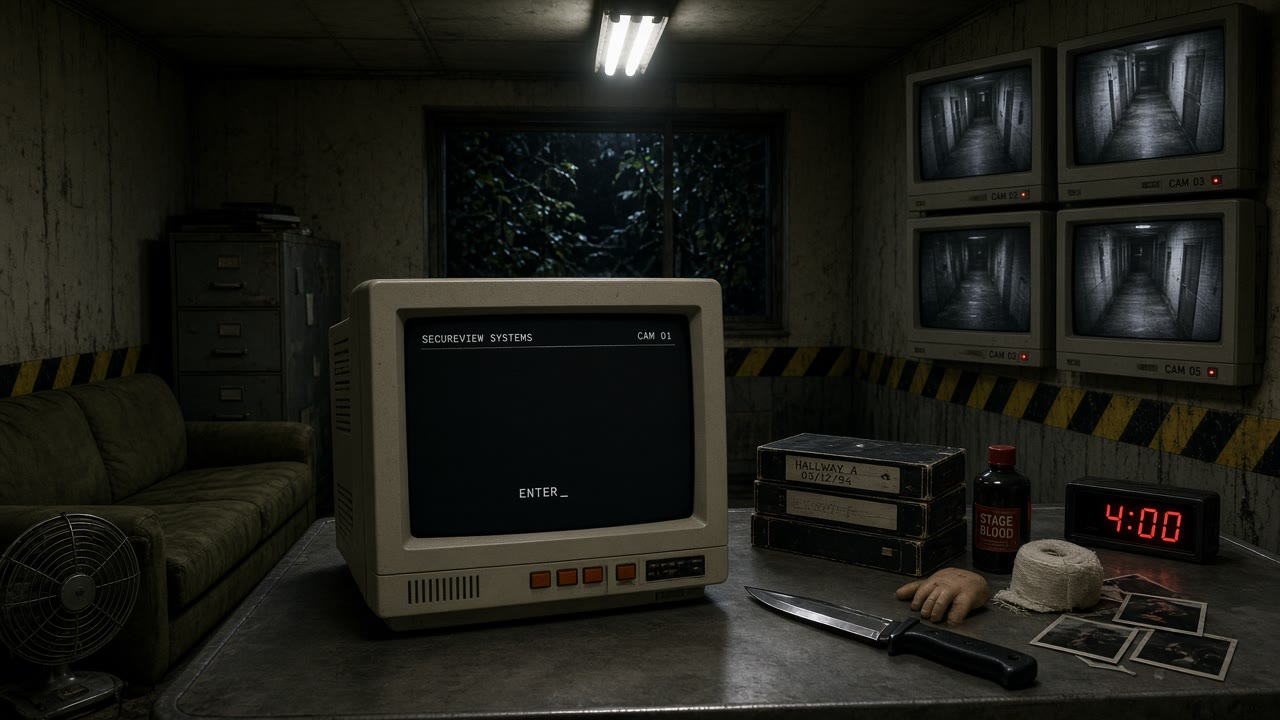
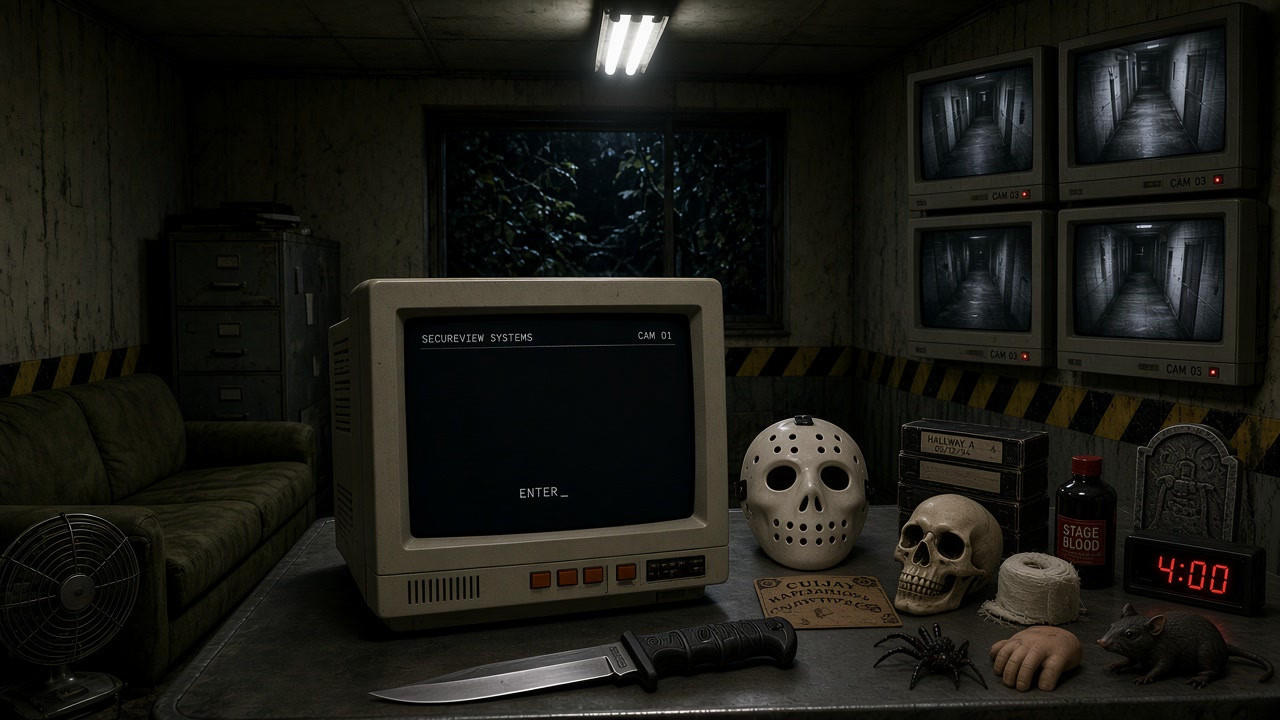
Update photoreal desk: Scream-style knife and campy horror props

diff --git a/src/components/BootSequence.tsx b/src/components/BootSequence.tsx
@@ -94,7 +94,7 @@ export default function BootSequence({ onEnter }: { onEnter: () => void }) {
           {/* eslint-disable-next-line @next/next/no-img-element */}
           <img
             className="desk-photo"
-            src="/security-desk.jpg"
+            src="/security-desk.png"
             alt="Photoreal security office desk with CRT monitors"
             draggable={false}
           />
